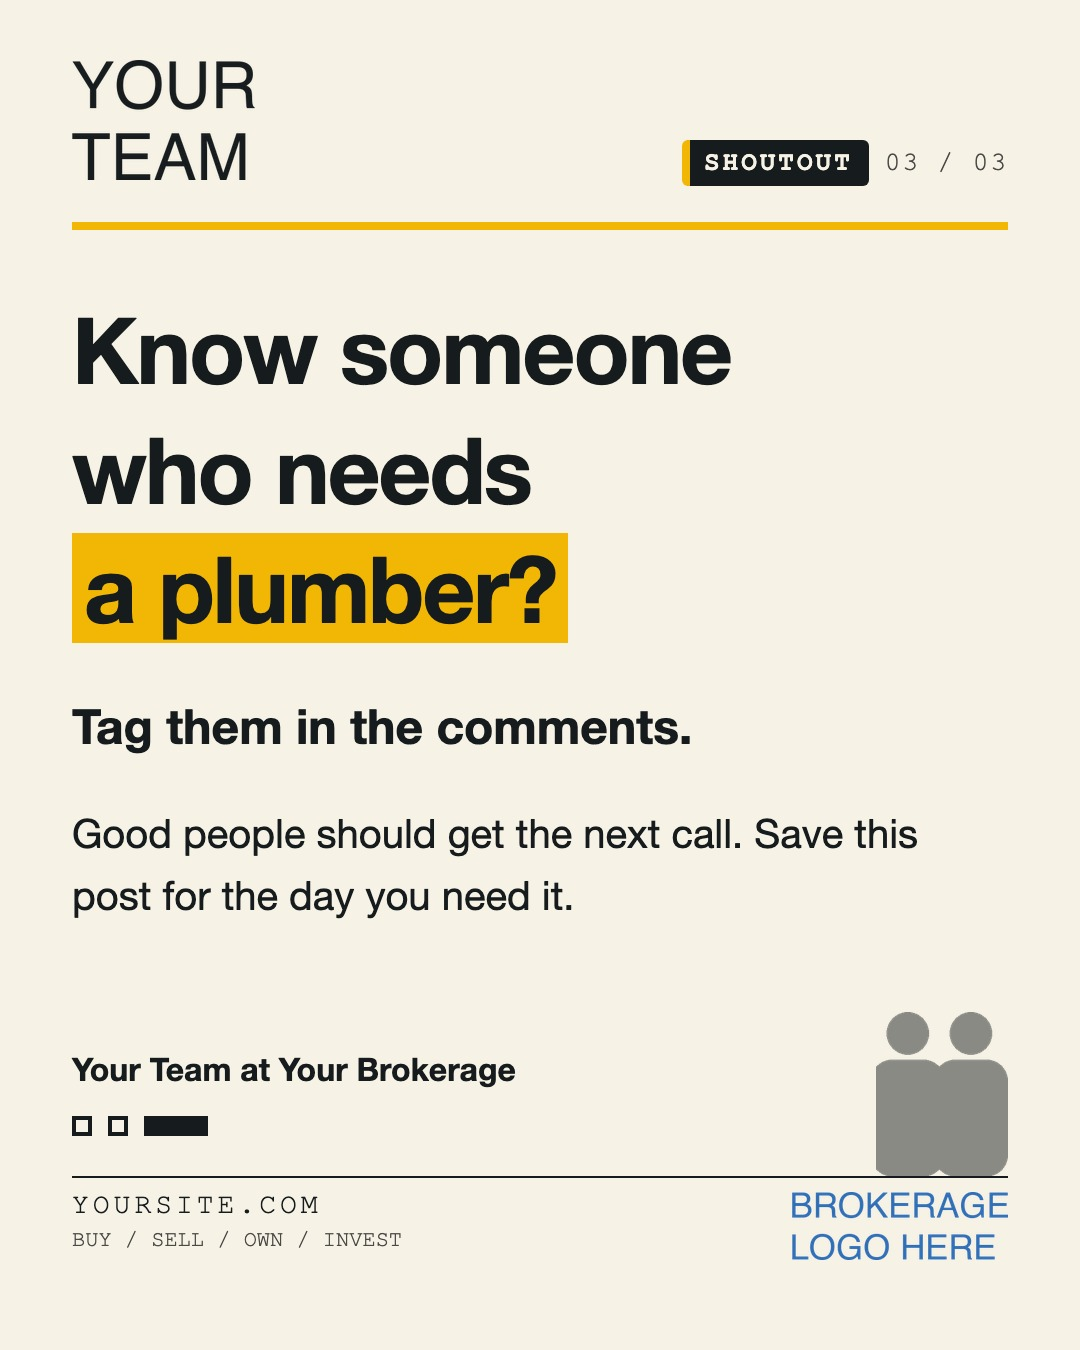
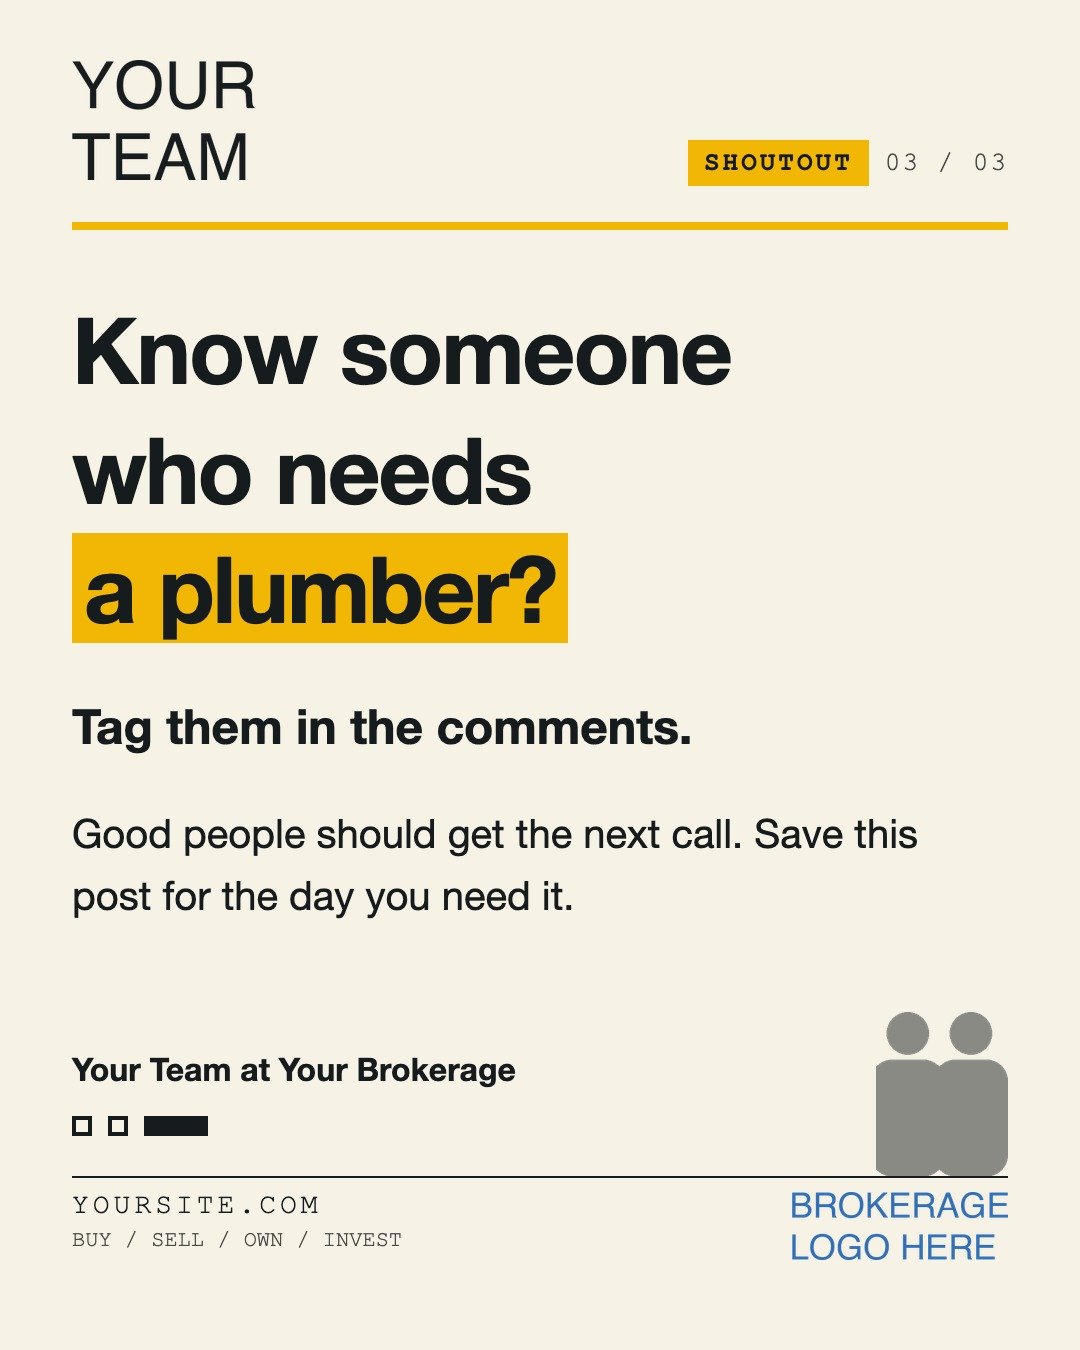
Set the shoutout tag as a gold highlight to match the headline mark

Changed region(s): [[0.6111, 0.0933, 0.825, 0.1556]]

diff --git a/render.py b/render.py
@@ -45,7 +45,7 @@ body{{background:#ccc;font-family:'DM Sans',-apple-system,'Helvetica Neue',sans-
 .c{{width:{W}px;height:{H}px;position:relative;overflow:hidden;background:{c['ground']};color:{c['ink']}}}
 .tm{{position:absolute;top:60px;left:{MARGIN}px;height:120px}}
 .lane{{position:absolute;top:140px;right:{MARGIN}px;display:flex;align-items:center;gap:16px;font-family:'Courier New',monospace;font-size:26px;white-space:nowrap}}
-.lane .tag{{background:{c['ink']};color:{c['ground']};padding:8px 16px 8px 14px;border-radius:6px;font-weight:700;letter-spacing:3px;border-left:8px solid {c['accent']}}}
+.lane .tag{{background:{c['accent']};color:{c['ink']};padding:8px 16px;font-weight:700;letter-spacing:3px}}
 .lane .num{{letter-spacing:2px;color:{c['muted']}}}
 .gr{{position:absolute;top:222px;left:{MARGIN}px;right:{MARGIN}px;height:8px;background:{c['accent']}}}
 .flow{{position:absolute;top:290px;left:{MARGIN}px;right:110px;bottom:298px;display:flex;flex-direction:column;gap:48px}}
